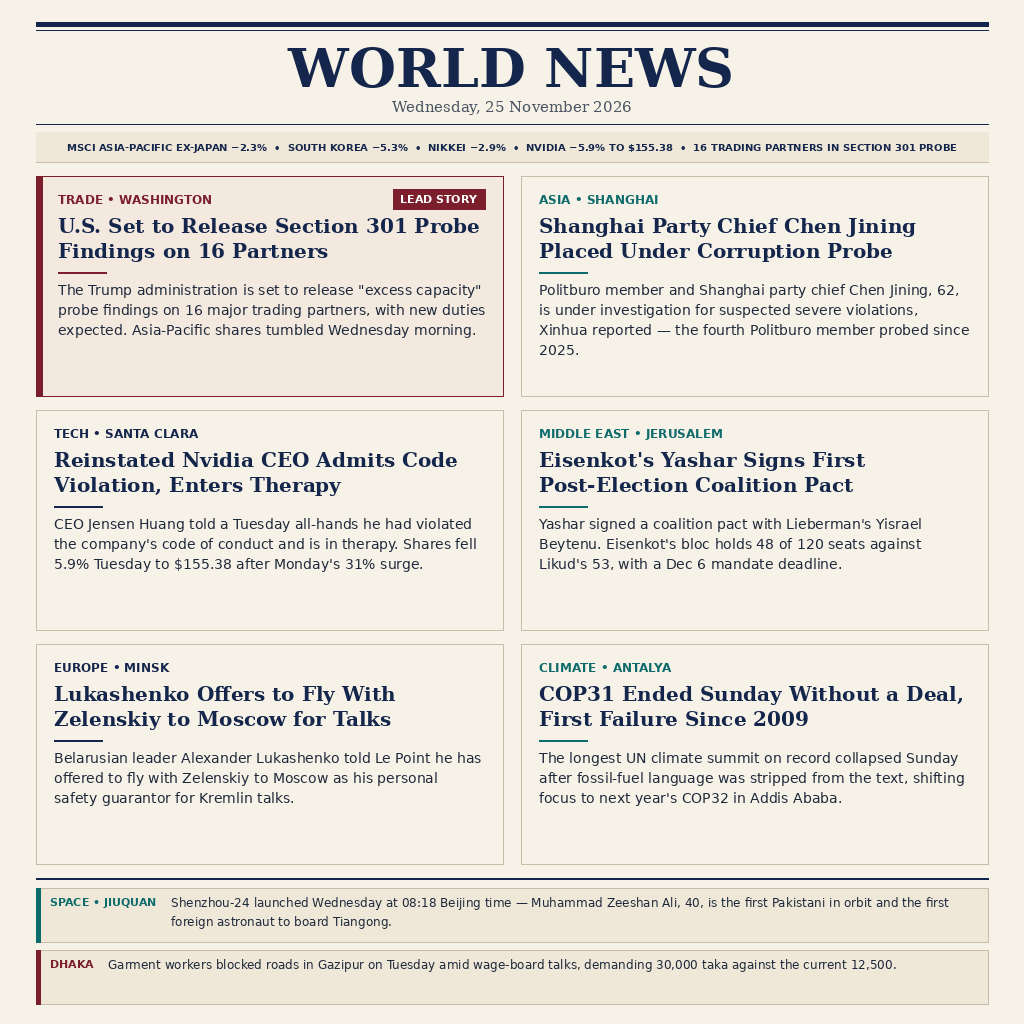
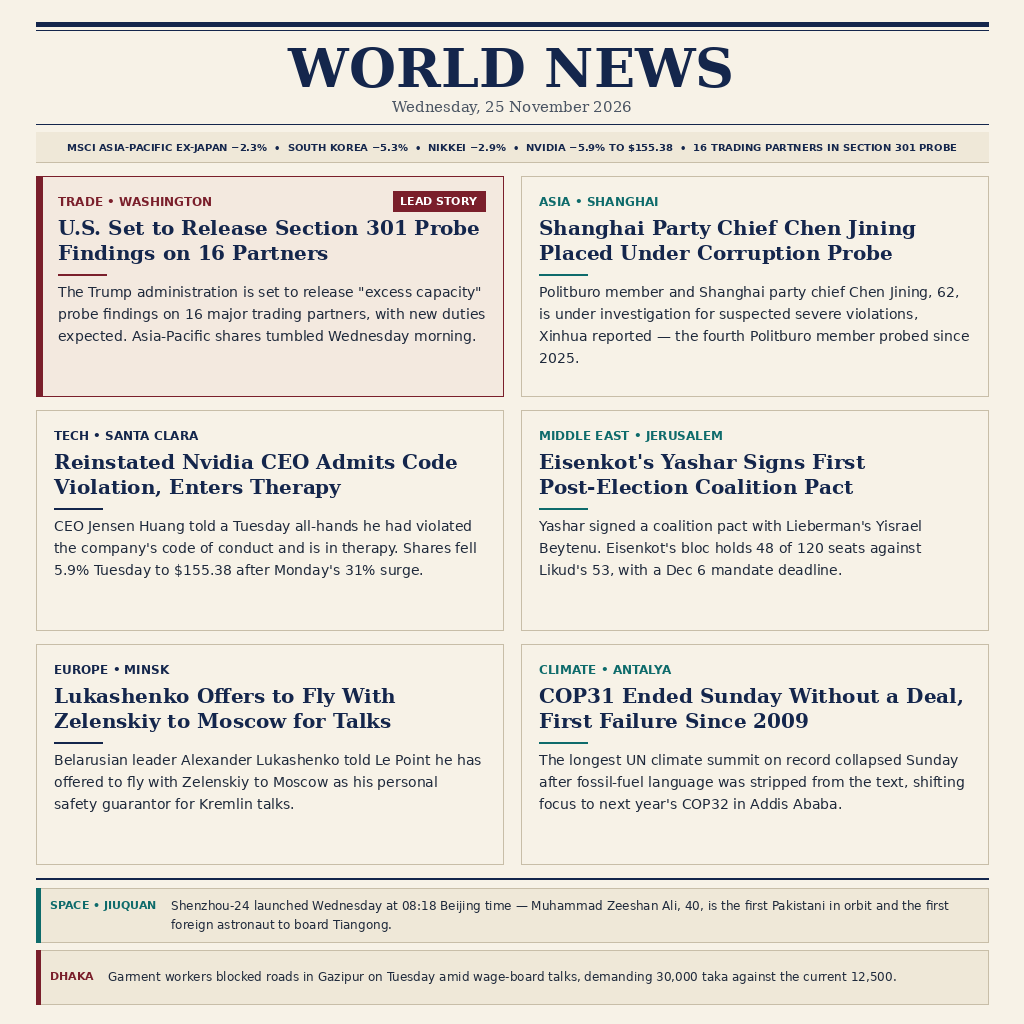
Refine panel line height and footer vertical centering in draw.py

diff --git a/draw.py b/draw.py
@@ -177,7 +177,7 @@ def draw_panel(
 ) -> None:
     x0, y0, x1, y1 = box
     pad_x = 18
-    pad_y = 14
+    pad_y = 16
 
     bg = SURFACE_LEAD if panel.is_lead else BG_IVORY
     border = ACCENT_BURGUNDY if panel.is_lead else RULE_COLOR
@@ -224,7 +224,7 @@ def draw_panel(
     # Summary (clean sans)
     font_body = load_font(FONT_SANS, 14)
     body_lines = wrap_text(draw, panel.summary, font_body, inner_w)
-    body_line_h = 20
+    body_line_h = 22
     for line in body_lines:
         draw.text((inner_x, cursor_y), line, font=font_body, fill=INK_BODY)
         cursor_y += body_line_h
@@ -306,15 +306,19 @@ def render(out_path: Path) -> None:
         draw.rectangle([margin_x, sy0, margin_x + 4, sy1], fill=k_color)
 
         kx = margin_x + 14
-        draw.text((kx, sy0 + 7), kicker, font=font_strip_kicker, fill=k_color)
         kb = draw.textbbox((0, 0), kicker, font=font_strip_kicker)
         text_x = kx + (kb[2] - kb[0]) + 14
         max_body_w = (WIDTH - margin_x - 14) - text_x
         lines = wrap_text(draw, body, font_strip_body, max_body_w)
         if len(lines) > 2:
             raise RuntimeError(f"Footer strip '{kicker}' wrapped to {len(lines)} lines (>2)")
+
+        line_h = 19
+        block_h = (len(lines) - 1) * line_h + 15
+        text_y0 = sy0 + (strip_h - block_h) // 2
+        draw.text((kx, text_y0), kicker, font=font_strip_kicker, fill=k_color)
         for li, line in enumerate(lines):
-            draw.text((text_x, sy0 + 7 + li * 19), line, font=font_strip_body, fill=INK_BODY)
+            draw.text((text_x, text_y0 + li * line_h), line, font=font_strip_body, fill=INK_BODY)
 
     img.save(out_path, format="PNG")
 

diff --git a/main.py b/main.py
@@ -14,7 +14,7 @@ import shutil
 import sys
 from pathlib import Path
 
[2 lines of base64/hex data omitted]
 
 
 def sha256_file(path: Path) -> str:
